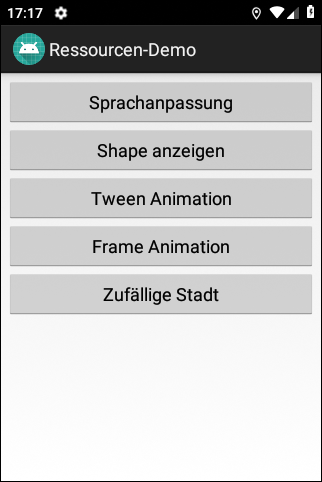
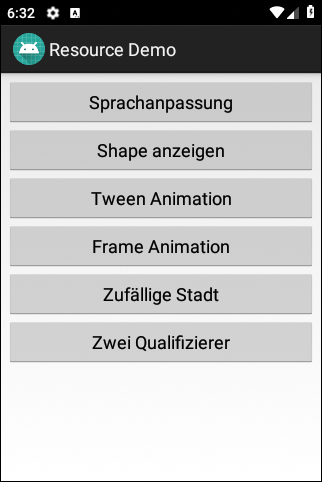
README-Datei: Screenshot 1 ersetzt, zwei neue Screenshots (6+7) dazu

diff --git a/README.md b/README.md
@@ -23,6 +23,10 @@ Identifiers (names for classes, variables and methods), (JavaDoc) comments and U
 
 <br>
 
+![Screenshot 6](screenshot_6.png) ![Screenshot 7](screenshot_7.png)
+
+<br>
+
 ----
 # License
 
